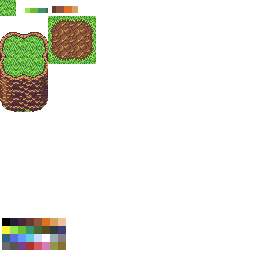
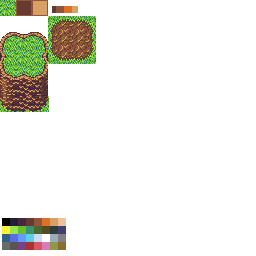
Fix rendering and wall edge placement

Changed region(s): [[0.0625, 0.0, 0.1875, 0.0625], [0.125, 0.375, 0.2188, 0.4375], [0.0, 0.4062, 0.0625, 0.4375]]

diff --git a/core/src/net/alcuria/umbracraft/engine/map/Map.java b/core/src/net/alcuria/umbracraft/engine/map/Map.java
@@ -25,6 +25,8 @@ public class Map implements Disposable {
 	private final Array<Layer> layers;
 	private final int maxAlt;
 	private final Array<TextureRegion> tiles;
+	private final int tileSide = 1;
+	private final int tileTop = 2;
 	private final int width;
 
 	public Map() {
@@ -47,21 +49,16 @@ public class Map implements Disposable {
 		altMap = new int[width][height];
 
 		//		set dummy alts
-		//		for (int i = 3; i < 9; i++) {
-		//			for (int j = 3; j < 9; j++) {
-		//				altMap[i][j] = 1;
-		//			}
-		//		}
-		//		for (int i = 4; i < 8; i++) {
-		//			for (int j = 4; j < 8; j++) {
-		//				altMap[i][j] = 2;
-		//			}
-		//		}
-		//		for (int i = 5; i < 7; i++) {
-		//			for (int j = 5; j < 7; j++) {
-		//				altMap[i][j] = 3;
-		//			}
-		//		}
+		for (int i = 3; i < 7; i++) {
+			for (int j = 3; j < 7; j++) {
+				altMap[i][j] = 1;
+			}
+		}
+		for (int i = 4; i < 6; i++) {
+			for (int j = 4; j < 6; j++) {
+				altMap[i][j] = 3;
+			}
+		}
 		//---
 		altMap[10][8] = 4;
 		altMap[10][9] = 4;
@@ -100,9 +97,9 @@ public class Map implements Disposable {
 							l.data[i][j + altitude] = new Tile(createEdge(i, j, altitude), l.alt); // create edge
 							// check if we need to create a wall
 							if (j - 1 >= 0 && j - 1 < altMap[0].length) {
-								int drop = (altitude - altMap[i][j - 1]) - lastAlt;
+								int drop = (altitude - altMap[i][j - 1]);
 								while (drop > 0) {
-									l.data[i][(j + altitude) - drop] = new Tile(createWall(i, j, drop, altitude, lastAlt), l.alt);
+									l.data[i][(j + altitude) - drop] = new Tile(createWall(i, j, drop, altitude, altMap[i][j - 1]), l.alt);
 									drop--;
 								}
 							}
@@ -160,8 +157,8 @@ public class Map implements Disposable {
 		return 0;
 	}
 
-	private int createWall(int i, int j, int drop, int altitude, int lastAlt) {
-		if (drop + lastAlt == altitude) {
+	private int createWall(int i, int j, int drop, int altitude, int baseAlt) {
+		if (drop == altitude - baseAlt) {
 			// lower walls
 			if (altContains(i - 1, j) && altMap[i - 1][j] < altitude) {
 				return def.bottomLeftWall;
@@ -211,13 +208,18 @@ public class Map implements Disposable {
 	 * @param row */
 	public void render(int row) {
 		final int tileSize = Game.config().tileWidth;
-		for (int k = 0; k < 4; k++) {
+		for (int k = 0; k < layers.size; k++) {
 			int alt = layers.get(k).alt;
 			final Tile[][] data = layers.get(k).data;
-			row += alt;
+			//row += alt;
+			if (row < 0 || row >= altMap[0].length) {
+				return;
+			}
 			for (int i = 0; i < data.length; i++) {
-				if (row >= 0 && row < data[i].length && data[i][row] != null) {
-					Game.batch().draw(tiles.get(data[i][row].id), (i * tileSize), (row * tileSize), tileSize, tileSize);
+				for (int j = 0; j <= altMap[i][row]; j++) {
+					if (row >= 0 && row < data[i].length && data[i][row + j] != null) {
+						Game.batch().draw(tiles.get(data[i][row + j].id), (i * tileSize), (row * tileSize) + j * 16, tileSize, tileSize);
+					}
 				}
 			}
 		}

diff --git a/core/src/net/alcuria/umbracraft/engine/objects/GameObjectManager.java b/core/src/net/alcuria/umbracraft/engine/objects/GameObjectManager.java
@@ -33,18 +33,17 @@ public class GameObjectManager {
 			return;
 		}
 		// get the visible tiles on the screen
-		int x = (int) (Game.camera().getCamera().position.x - Game.config().viewWwidth / 2) / Game.config().tileWidth;
+		int x = (int) (Game.camera().getCamera().position.x - Game.config().viewWidth / 2) / Game.config().tileWidth;
 		int y = (int) (Game.camera().getCamera().position.y - Game.config().viewHeight / 2) / Game.config().tileWidth;
-		int width = (int) (Game.config().viewWwidth / Game.config().tileWidth);
+		int width = (int) (Game.config().viewWidth / Game.config().tileWidth);
 		int height = (int) (Game.config().viewHeight / Game.config().tileWidth);
 
 		// render each row in view, starting from the top
 		int row = y + height;
 		int heroRow = (int) ((gameObjects.get(0).position.y) / Game.config().tileWidth);
-		Game.log("" + map.getMaxAltitude());
 		while (row > y - map.getMaxAltitude() * 2) {
 			map.render(row);
-			if (row + gameObjects.get(0).altitude / 16 == heroRow) {
+			if (row + gameObjects.get(0).altitude / Game.config().tileWidth == heroRow) {
 				gameObjects.get(0).render();
 			}
 			row--;

diff --git a/core/src/net/alcuria/umbracraft/Game.java b/core/src/net/alcuria/umbracraft/Game.java
@@ -60,7 +60,7 @@ public class Game {
 		// initialize everything
 		config = new Config();
 		assets = new AssetManager();
-		camera = new CameraManager(new OrthographicCamera(config.viewWwidth, config.viewHeight));
+		camera = new CameraManager(new OrthographicCamera(config.viewWidth, config.viewHeight));
 		batch = new SpriteBatch();
 		publisher = new EventPublisher();
 		// now subscribe

diff --git a/core/src/net/alcuria/umbracraft/Config.java b/core/src/net/alcuria/umbracraft/Config.java
@@ -5,6 +5,6 @@ public class Config {
 	public final int tilesetWidth = 256;
 	public final int tileWidth = 16;
 	public final float viewHeight = 240;
-	public final float viewWwidth = 320;
+	public final float viewWidth = 320;
 
 }
